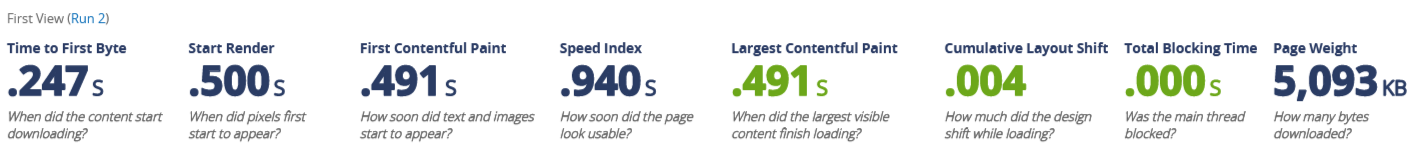
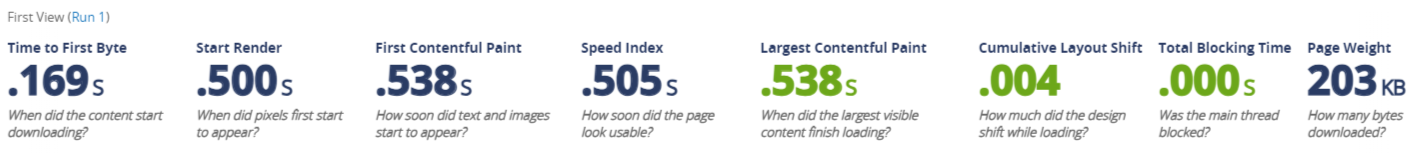
fix results

diff --git a/src/lib/js/posts.js b/src/lib/js/posts.js
@@ -1,3 +1,5 @@
+import { dev } from '$app/environment';
+
 export function nameFromPath(path) {
 	return path.split('/').slice(-1)[0].split('.')[0].replace(/^\++/, '');
 }
@@ -10,8 +12,11 @@ export async function getPosts(modules) {
 		}))
 	);
 
-	const posts = await Promise.all(postPromises);
-	const filtered = posts.filter((post) => post.published);
+	let posts = await Promise.all(postPromises);
 
-	return filtered;
+	if (!dev) {
+		posts = posts.filter((post) => post.published);
+	}
+
+	return posts;
 }

diff --git a/src/routes/blog/+page.js b/src/routes/blog/+page.js
@@ -1,13 +1,9 @@
 import { getPosts } from '$lib/js/posts.js';
-import { dev } from '$app/environment';
 
 export async function load() {
 	const modules = import.meta.glob('/src/content/blog/*/*.md');
 	let posts = await getPosts(modules);
 
-	if (!dev) {
-		posts = posts.filter((post) => post.published);
-	}
 	posts.sort((a, b) => new Date(b.date) - new Date(a.date));
 
 	return { posts };

diff --git a/src/routes/projects/+page.js b/src/routes/projects/+page.js
@@ -1,13 +1,8 @@
 import { getPosts } from '$lib/js/posts.js';
-import { dev } from '$app/environment';
 
 export async function load() {
 	const modules = import.meta.glob('/src/content/projects/*/*.md');
 	let posts = await getPosts(modules);
-
-	if (!dev) {
-		posts = posts.filter((post) => post.published);
-	}
 
 	return { posts };
 }

diff --git a/src/content/blog/optimizing-sveltekit/+optimizing-sveltekit.md b/src/content/blog/optimizing-sveltekit/+optimizing-sveltekit.md
@@ -10,7 +10,63 @@ date: 2024-04-14
     import Image from '$lib/components/Image.svelte';
 </script>
 
-After building this site, I've started down the rabbit hole of making it as smooth and fast as possible. To be fair, SvelteKit is already really fast out of the box, so there wasn't that much to do. But there were still ways to improve performance.
+<style lang="scss">
+    .comparison {
+        margin: 1.5rem 0;
+    }
+    .comparison figure {
+        display: flex;
+        margin: 0;
+        overflow: hidden;
+    }
+    .comparison figcaption {
+        font-size: 1rem;
+        text-align: center;
+        margin-top: 1.5rem;
+    }
+    .details {
+        display: flex;
+        flex-direction: column;
+        gap: 1rem;
+        padding: 1.5rem;
+        width: 10rem;
+        background: var(--bg-2);
+    }
+    .details p {
+        margin: 0;
+    }
+    :global(.comparison picture) {
+        margin: 0;
+    }
+    @media (max-width: 700px) {
+        .comparison figure {
+            flex-direction: column;
+        }
+        .details {
+            flex-direction: row;
+            width: 100%;
+            justify-content: space-between;
+            flex-wrap: wrap;
+        }
+        .details div {
+            text-align: center;
+        }
+    }
+
+    .sidebyside {
+        gap: 1rem;
+        display: flex;
+        margin: 1.5rem 0;
+    }
+    .sidebyside.vertical {
+        flex-direction: column;
+    }
+    :global(.sidebyside picture) {
+        margin: 0;
+    }
+</style>
+
+After building this site, I've started down the rabbit hole of making it as smooth and fast as possible. To be fair, SvelteKit is already really fast out of the box, so there wasn't a ton to do. But there were still some ways to improve performance.
 
 ## prerendering
 
@@ -26,7 +82,7 @@ The great thing about prerendering is that you don't have to change the structur
 
 ## static adapter
 
-I also switched to `@sveltejs/adapter-static` from the Vercel adapter. Since the entire site is already prerendered, it shouldn't make much of a performance difference when hosting on Vercel. But it does eliminate serverless functions, and gives me flexibility to host the site on any static hosting service.
+I also switched to `@sveltejs/adapter-static` from the Vercel adapter. Since the entire site is already prerendered, it shouldn't make much of a performance difference when hosting on Vercel. But it does eliminate usage of serverless functions, and gives me the flexibility to host the site on other static hosting services.
 
 `svelte.config.js`:
 
@@ -74,50 +130,6 @@ Traditional image formats like JPEG and PNG are not very efficient. Modern forma
     <figcaption>file size comparison of different image formats</figcaption>
 </div>
 
-<style lang="scss">
-    .comparison {
-        margin: 1.5rem 0;
-    }
-    .comparison figure {
-        display: flex;
-        margin: 0;
-        overflow: hidden;
-    }
-    .comparison figcaption {
-        font-size: 1rem;
-        text-align: center;
-        margin-top: 1.5rem;
-    }
-    .details {
-        display: flex;
-        flex-direction: column;
-        gap: 1rem;
-        padding: 1.5rem;
-        width: 10rem;
-        background: var(--bg-2);
-    }
-    .details p {
-        margin: 0;
-    }
-    :global(.comparison picture) {
-        margin: 0;
-    }
-    @media (max-width: 700px) {
-        .comparison figure {
-            flex-direction: column;
-        }
-        .details {
-            flex-direction: row;
-            width: 100%;
-            justify-content: space-between;
-            flex-wrap: wrap;
-        }
-        .details div {
-            text-align: center;
-        }
-    }
-</style>
-
 Loading a high resolution image on a low resolution or small screen is also a waste of resources. Images should be sized appropriately for users' screens.
 
 These optimizations can be achieved using an html `<picture>` element with multiple `<source>` elements, which allow the browser to automatically choose the best format and size for the user. The final `<img>` element serves as a fallback for older browsers.
@@ -163,7 +175,7 @@ And this is the actual image component `Image.svelte`:
         const pictures = import.meta.glob(`/src/content/*/*/*.{avif,gif,heif,jpeg,jpg,png,tiff,webp}`, {
             query: {
                 enhanced: true,
-                w: '2400;2000;1600;1200;800'
+                w: '2400;2000;1600;1200;800;400'
             }
         });
 
@@ -211,7 +223,7 @@ And this is the actual image component `Image.svelte`:
 
 Since images in my project live in subdirectories of `src/content`, I use Vite's `import.meta.glob` to get all images in these directories, and then loop through them to find and import the right image. This might seem inefficient, but everything will be prerendered and bundled at build time, so it doesn't matter.
 
-Notice the `query` option in the `import.meta.glob`. Setting `enhanced: true` enables the enhanced behavior and allows me to pass in options like `w: '2400;2000;1600;1200;800'` to tell `vite-imagetools` to generate multiple sizes of each image at build time. The generated source sets can then be passed into the `<source>` elements.
+Notice the `query` option in the `import.meta.glob`. Setting `enhanced: true` enables the enhanced behavior and allows me to pass in options like `w: '2400;2000;1600;1200;800;400'` to tell `vite-imagetools` to generate multiple sizes of each image at build time. The generated source sets can then be passed into the `<source>` elements.
 
 One benefit of this approach is that it allows me to set image `width` and `height` properties dynamically, which is useful for preventing content layout shift (CLS) when the image loads. However, other image properties like `sizes`, `alt` and `loading` must be passed into the component as props. CSS variables can also be passed in as props to control the image's aspect ratio, width, and height.
 
@@ -324,11 +336,26 @@ export default config;
 
 ## results
 
-I'm not going to re-test the performance improvement of each change, but I can show that my site is much faster now. I've gone back and disabled each optimization to measure the impact.
+I'm not going to individually test the performance improvement of each change, but I can show that they combine to make my site much faster. I've gone back and disabled each optimization to measure the impact. I ran [WebPageTest](https://www.webpagetest.org/) on the page <https://www.refact0r.dev/blog/bus>, which is my largest blog post. It is hosted on Vercel's free tier. Here are the results:
 
-PageSpeed Insights/Lighthouse mobile (unoptimized vs optimized):
+mobile (unoptimized vs optimized):
 
-<div class="sidebyside">
-    <Image image="pagespeed-mobile-unoptimized.png" alt="unoptimized pagespeed mobile score" />
-    <Image image="pagespeed-mobile-optimized.png" alt="optimized pagespeed mobile score" />
-<div>
+<div class="sidebyside vertical">
+    <Image image="webpagetest-mobile-unoptimized.png" alt="unoptimized webpagetest mobile score" />
+    <Image image="webpagetest-mobile-optimized.png" alt="optimized webpagetest mobile score" />
+</div>
+
+desktop (unoptimized vs optimized):
+
+<div class="sidebyside vertical">
+    <Image image="webpagetest-desktop-unoptimized.png" alt="unoptimized webpagetest desktop score" />
+    <Image image="webpagetest-desktop-optimized.png" alt="optimized webpagetest desktop score" />
+</div>
+
+You can see from the page weight on right that the optimized site is much smaller, primarily due to the image optimizations. Speed index has improved from 1.8s to 1.2s on mobile and 0.9s to 0.5s on desktop. Improvements of this scale are definitely noticeable by users. On desktop there is no difference, but total blocking time has decreased to basically zero on mobile, likely due to the inlined CSS and preloaded fonts. The site is now much faster and more efficient.
+
+## conclusion
+
+There are still a few things I'd like to do, such as setting more detailed `sizes` attributes on all images and eventually using the `<enhanced:img>` component. But for now, I'm happy with the performance of my site.
+
+I hope this post has been helpful or at least interesting. If you have any feedback, feel free to [contact me](/contact).
